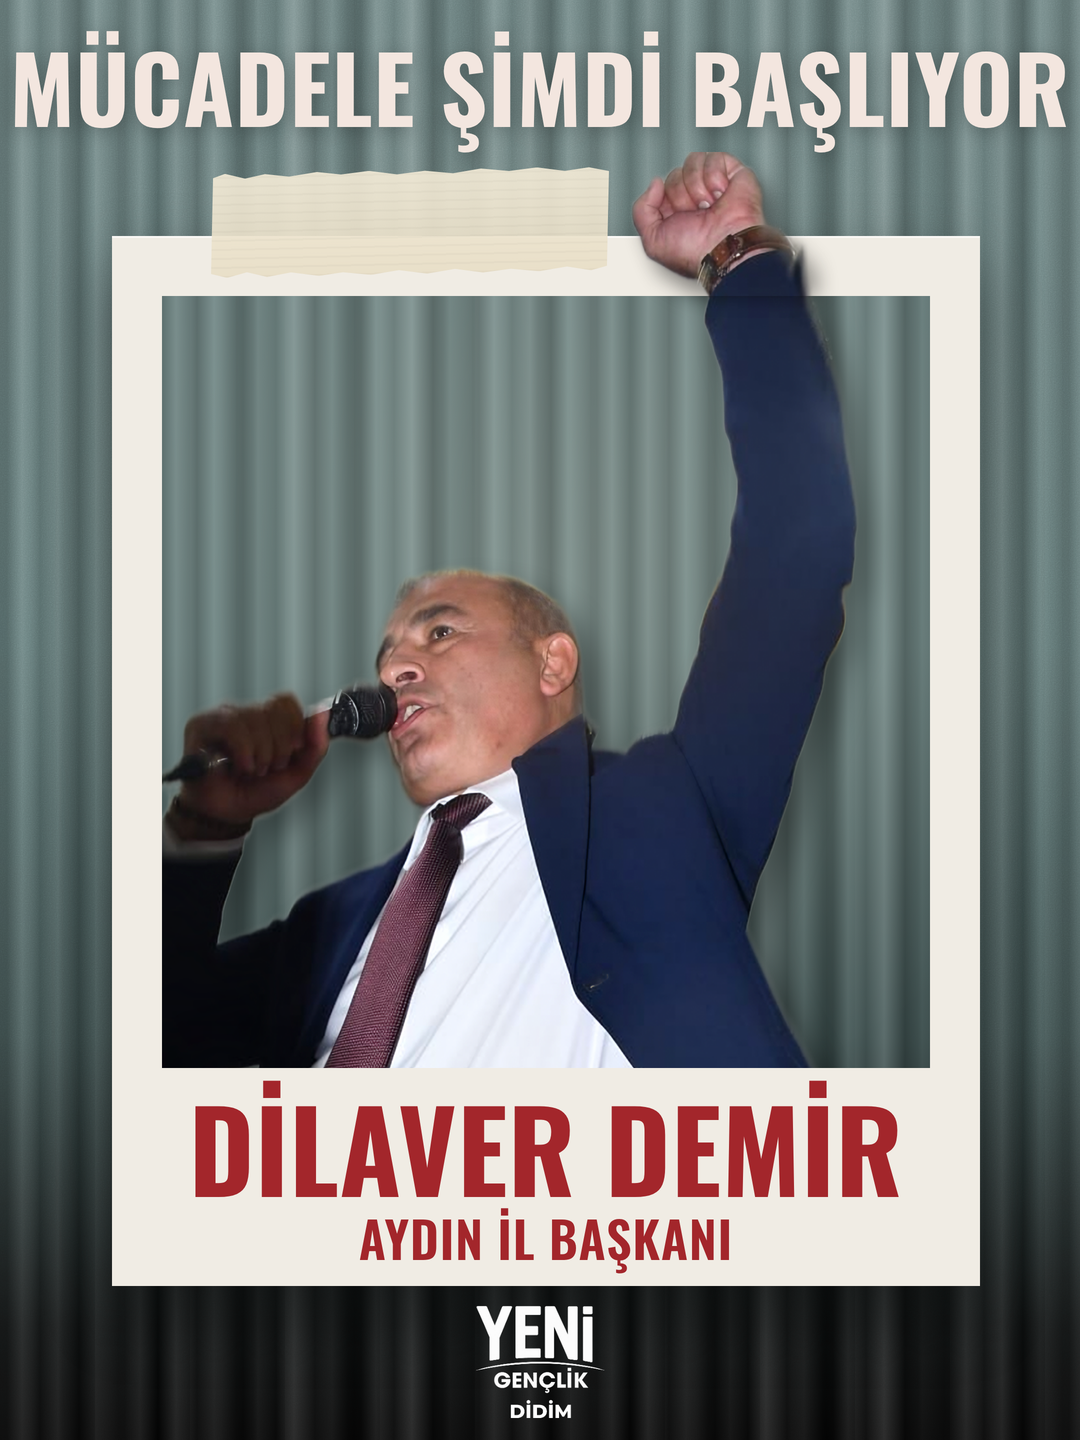
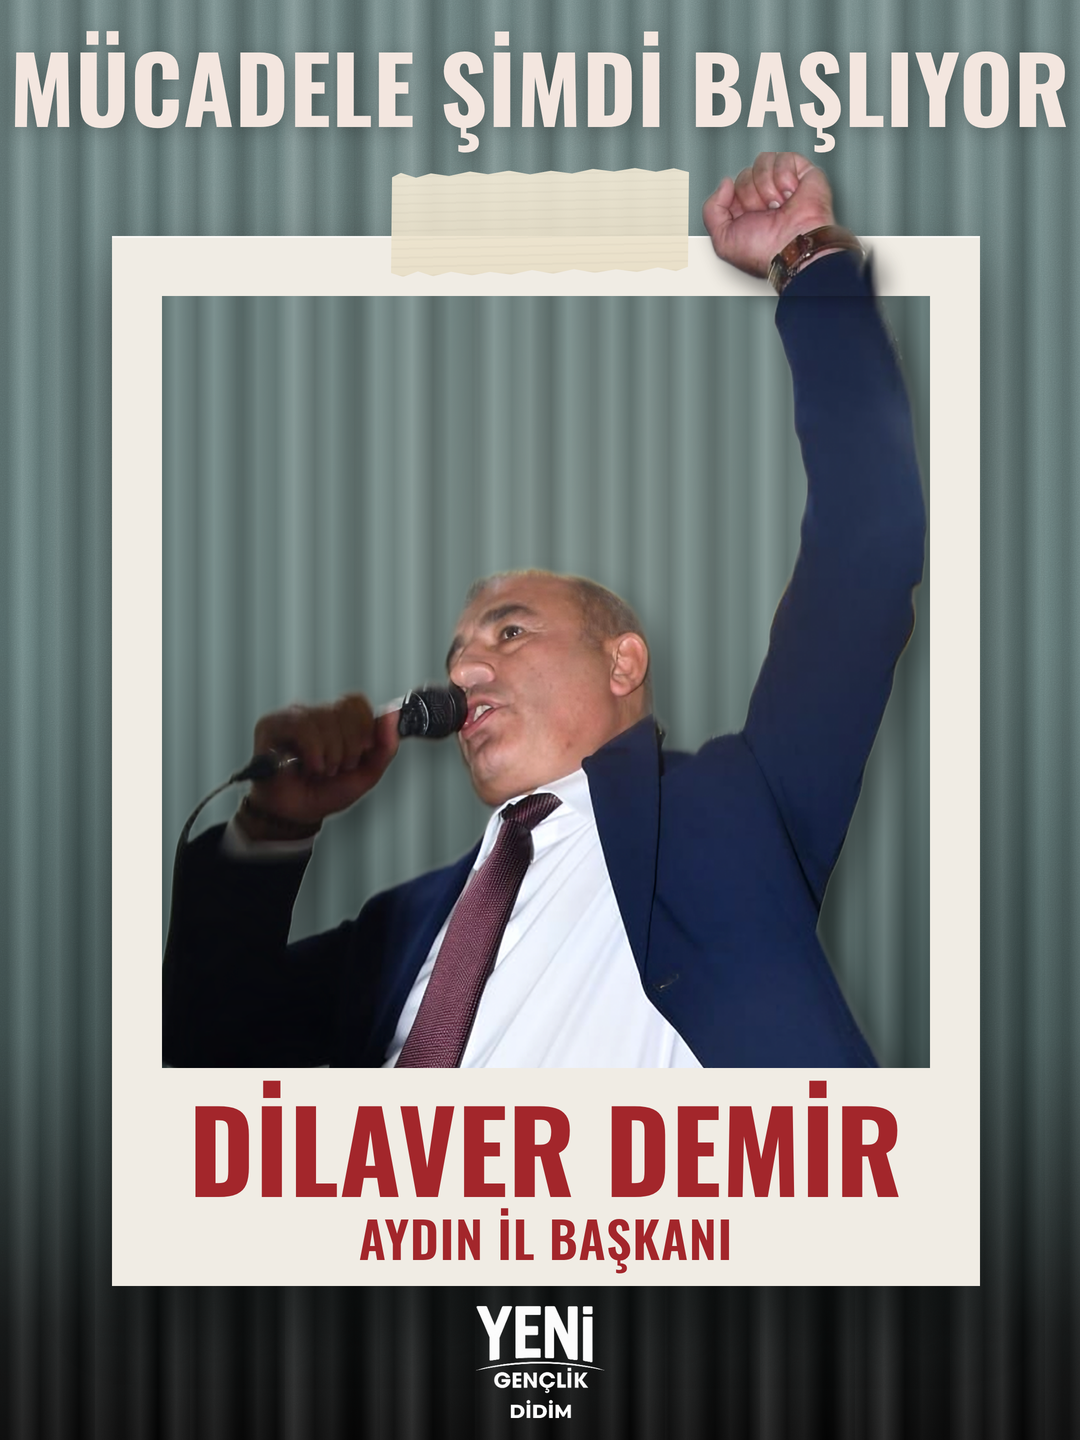
Zafer postu: bant ortalandı, Dilaver Demir sağa alındı, burun gölgesi yumuşatıldı
Claude-Session: https://claude.ai/code/session_01SatttGbgBLoCnk9KGLypWv

Changed region(s): [[0.1528, 0.0938, 0.8861, 0.75], [0.1833, 0.0938, 0.3667, 0.1875], [0.6417, 0.5625, 0.6722, 0.5938]]

diff --git a/tasarim/kisisel/zafer/zafer.html b/tasarim/kisisel/zafer/zafer.html
@@ -22,13 +22,13 @@ body{position:relative;background:#050505}
   box-shadow:inset 0 0 0 1px rgba(0,0,0,.12)}
 .pencere .ic{position:absolute;inset:0;background:inherit}
 .kisi{position:absolute;width:1206px;height:1352px;filter:contrast(1.04) saturate(1.05)}
-.pencere .kisi{left:-121px;top:-144px}
+.pencere .kisi{left:-51px;top:-144px}
 /* yumruk ve kol çerçevenin dışına taşar */
 .tasma{position:absolute;left:0;top:0;width:1080px;height:296px;overflow:hidden;pointer-events:none}
-.tasma .kisi{left:41px;top:152px}
+.tasma .kisi{left:111px;top:152px}
 .golge{position:absolute;left:0;top:0;width:1080px;height:296px;overflow:hidden;filter:blur(10px);opacity:.45}
-.golge .kisi{left:53px;top:168px;filter:brightness(0)}
-.bant{position:absolute;left:210px;top:170px;width:400px;height:104px;transform:rotate(-1.2deg);
+.golge .kisi{left:123px;top:168px;filter:brightness(0)}
+.bant{position:absolute;left:390px;top:170px;width:300px;height:104px;transform:rotate(-1.2deg);
   background:linear-gradient(180deg,rgba(242,234,214,.92),rgba(232,222,198,.9));
   box-shadow:0 2px 6px rgba(0,0,0,.18);
   clip-path:polygon(1% 4%,4% 0,9% 5%,14% 1%,20% 4%,27% 0,33% 3%,40% 0,47% 4%,54% 1%,61% 4%,68% 0,75% 3%,82% 0,89% 4%,95% 1%,100% 5%,99% 96%,95% 100%,89% 96%,82% 100%,75% 97%,68% 100%,61% 96%,54% 100%,47% 96%,40% 100%,33% 97%,27% 100%,20% 96%,14% 100%,9% 95%,4% 100%,0 96%)}
@@ -43,7 +43,7 @@ body{position:relative;background:#050505}
 <svg class="gren" width="1080" height="1440"><filter id="g"><feTurbulence type="fractalNoise" baseFrequency=".85" numOctaves="2" seed="3"/><feColorMatrix type="saturate" values="0"/></filter><rect width="1080" height="1440" filter="url(#g)"/></svg>
 <div class="baslik">MÜCADELE ŞİMDİ BAŞLIYOR</div>
 <div class="cerceve"></div>
-<div class="pencere"><div class="perde" style="left:-162px;top:-296px;width:1080px;height:1440px"></div><img class="kisi" src="dilaver-kesik-2x.png" style="left:-105px;top:-128px;filter:brightness(0) blur(14px);opacity:.35"><img class="kisi" src="dilaver-kesik-2x.png"></div>
+<div class="pencere"><div class="perde" style="left:-162px;top:-296px;width:1080px;height:1440px"></div><img class="kisi" src="dilaver-kesik-2x.png" style="left:-35px;top:-128px;filter:brightness(0) blur(14px);opacity:.35"><img class="kisi" src="dilaver-kesik-2x.png"></div>
 <div class="golge"><img class="kisi" src="dilaver-kesik-2x.png"></div>
 <div class="tasma"><img class="kisi" src="dilaver-kesik-2x.png"></div>
 <div class="bant"></div>
